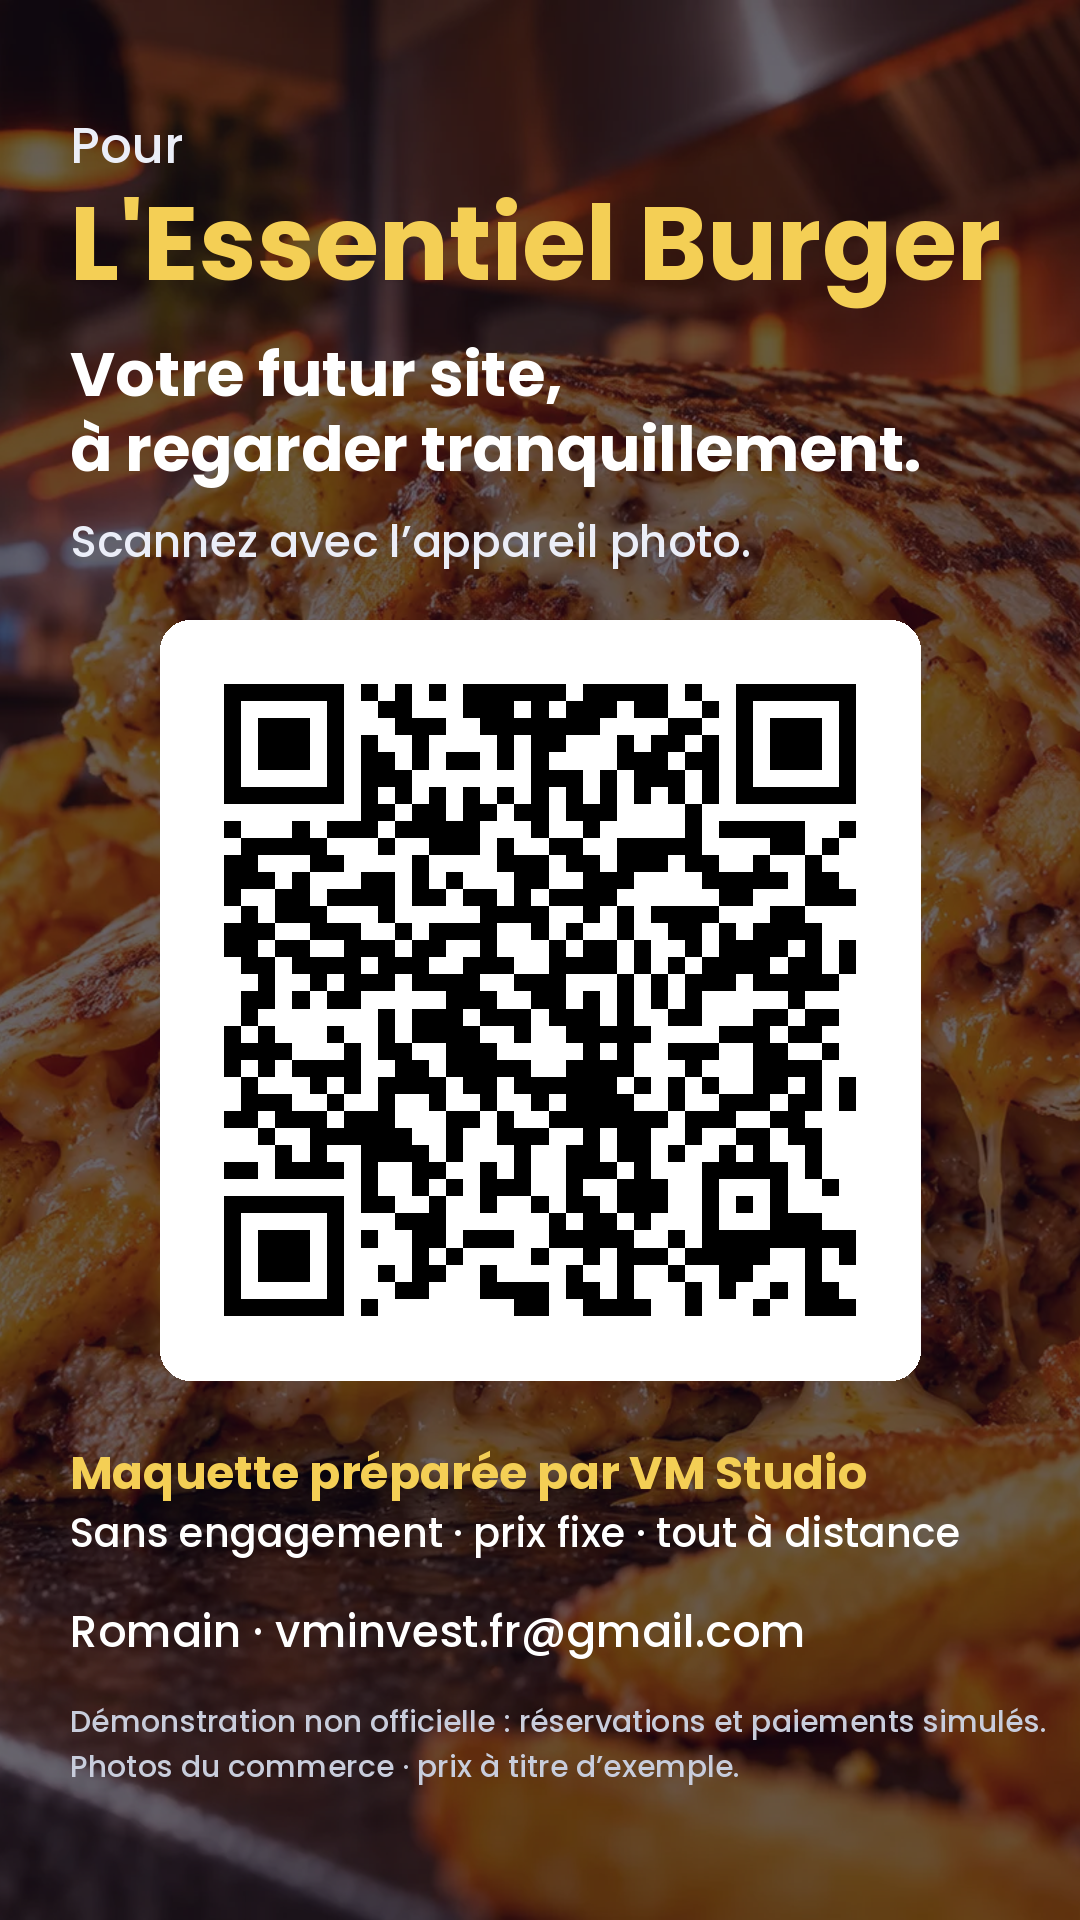
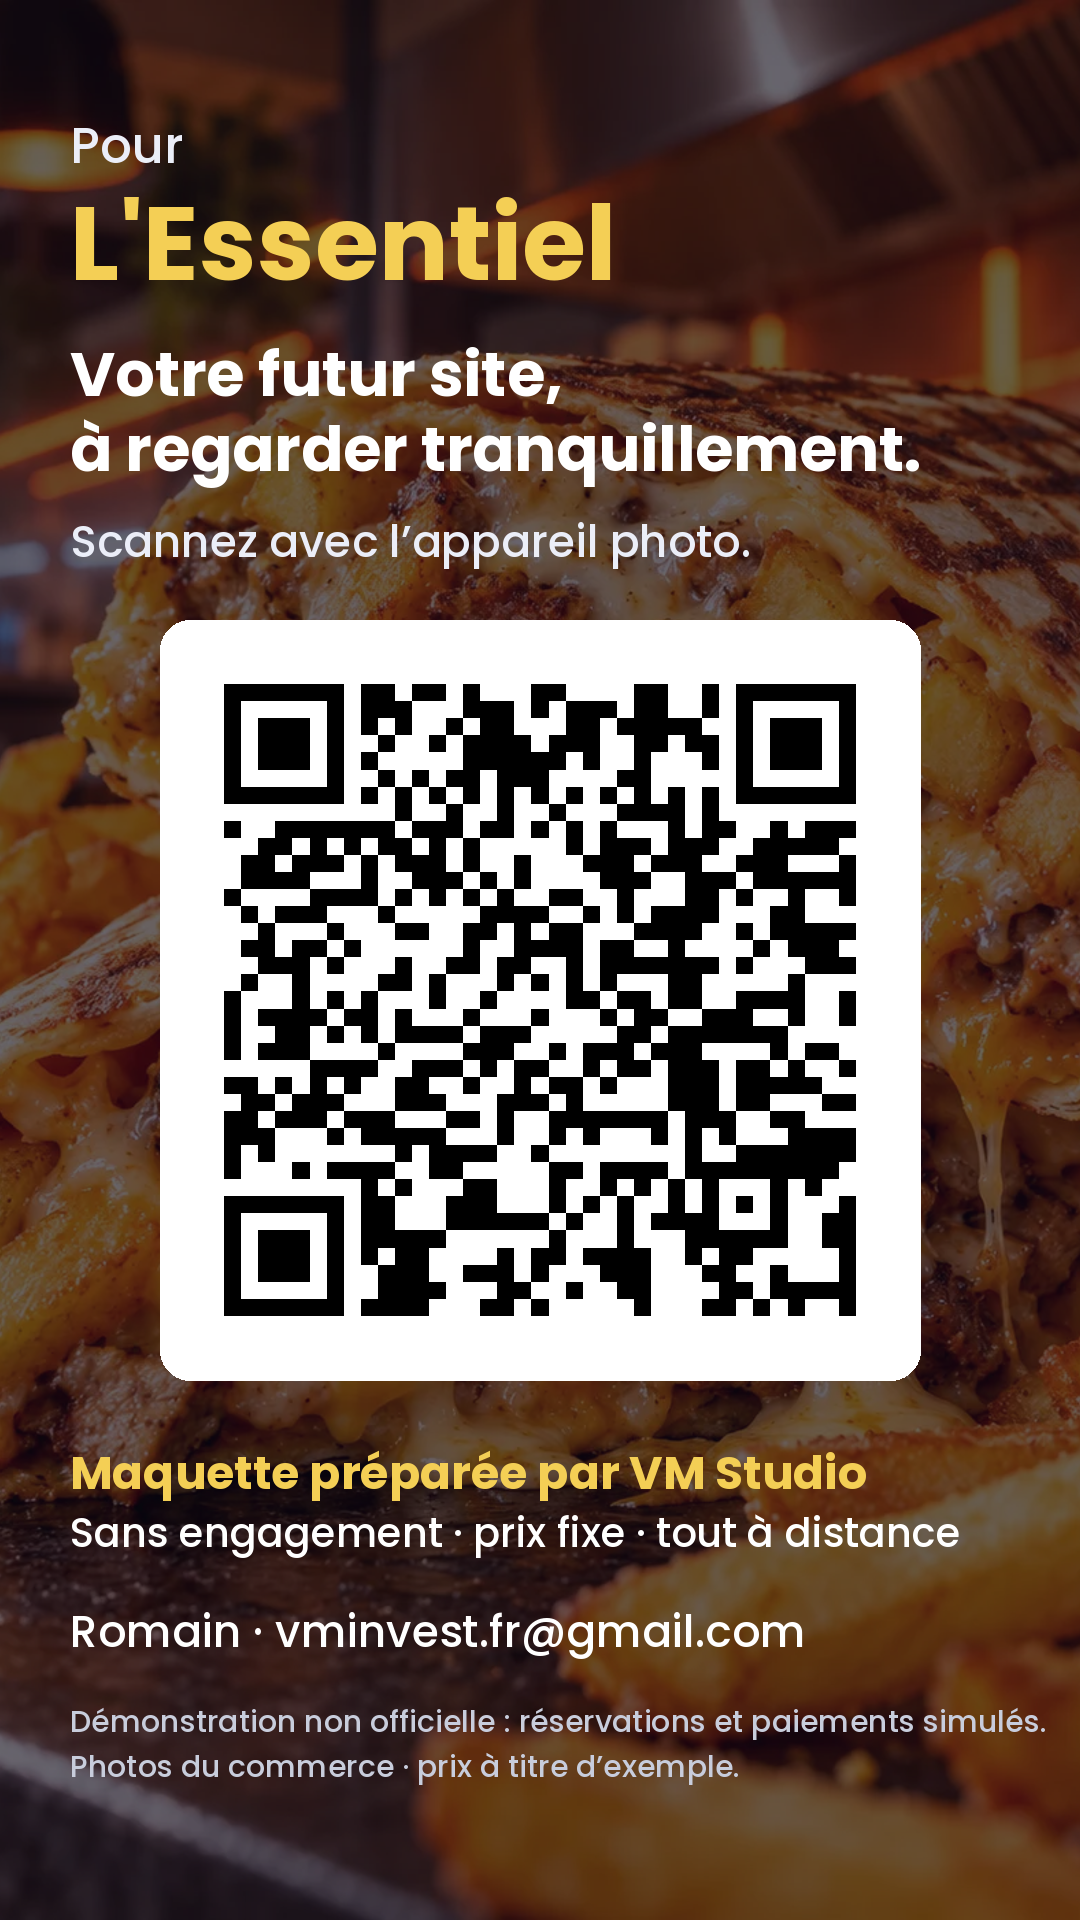
L'Essentiel : nom corrigé
Claude-Session: https://claude.ai/code/session_01P5NxQT71HyV29YBTs2kxP1

Changed region(s): [[0.1833, 0.3438, 0.7944, 0.6875], [0.5806, 0.0938, 0.9167, 0.1562]]

diff --git a/demos/clients/l-essentiel-burger-0d92858a24.html b/demos/clients/l-essentiel-burger-0d92858a24.html
@@ -62,7 +62,7 @@
 
 <script>
 var SAUCES=['Blanche','Algérienne','Samouraï','Harissa','Biggy','Barbecue','Ketchup','Mayo'];
-window.DEMO={"id": "client-l-essentiel-burger-0d92858a24", "name": "L'Essentiel Burger", "tagline": "Burgers faits maison : commandez en ligne, retirez à l'heure choisie", "address": "Belfort (90000)", "rating": "—", "hours": {"1": [["11:30", "14:00"], ["18:30", "22:00"]], "2": [["11:30", "14:00"], ["18:30", "22:00"]], "3": [["11:30", "14:00"], ["18:30", "22:00"]], "4": [["11:30", "14:00"], ["18:30", "22:00"]], "5": [["11:30", "14:00"], ["18:30", "22:30"]], "6": [["11:30", "14:00"], ["18:30", "22:30"]], "0": []}, "order": {"refPrefix": "EB", "prep": 15, "payNote": "Paiement au retrait en boutique.", "payShort": "paiement au retrait", "noteLabel": "Une précision ? (sans oignon, sans cornichons…)", "modes": [{"id": "emporter", "l": "À emporter", "e": "🥡", "sub": "Choisissez votre heure de retrait", "step": 15, "lead": 20, "rate": 20, "whenLabel": "Votre heure de retrait"}], "track": [["📥", "Reçue"], ["👨🍳", "En cuisine"], ["🔥", "Presque prête"], ["✅", "Prête !"]], "items": [{"id": "classic", "cat": "Burgers", "name": "Le Classic", "desc": "Steak haché, cheddar, salade, tomate, sauce maison. (exemple)", "price": 8.5, "e": "🍔", "img": "https://restaurant.restaurants-de-france.fr/assets/images/banner.jpg", "tag": "Best-seller", "opts": [{"n": "Formule", "c": ["Seul", ["Menu (frites + boisson)", 3.5]]}, {"n": "Cuisson", "c": ["À point", "Bien cuit"]}], "img_orig": "/demos/img/snack/burger.webp"}, {"id": "bacon", "cat": "Burgers", "name": "Le Cheese Bacon", "desc": "Steak haché, double cheddar, bacon croustillant, oignons. (exemple)", "price": 9.9, "e": "🥓", "img": "https://restaurant.restaurants-de-france.fr/assets/images/banner.jpg", "opts": [{"n": "Formule", "c": ["Seul", ["Menu (frites + boisson)", 3.5]]}, {"n": "Cuisson", "c": ["À point", "Bien cuit"]}], "img_orig": "/demos/img/snack/burger.webp"}, {"id": "double", "cat": "Burgers", "name": "Le Double", "desc": "Deux steaks, cheddar fondu, cornichons, sauce maison. (exemple)", "price": 11.5, "e": "🍔", "img": "https://restaurant.restaurants-de-france.fr/assets/images/banner.jpg", "tag": "Signature", "opts": [{"n": "Formule", "c": ["Seul", ["Menu (frites + boisson)", 3.5]]}, {"n": "Cuisson", "c": ["À point", "Bien cuit"]}], "img_orig": "/demos/img/snack/burger.webp"}, {"id": "chicken", "cat": "Burgers", "name": "Le Crispy Chicken", "desc": "Poulet pané croustillant, salade, sauce douce. (exemple)", "price": 9.5, "e": "🐔", "img": "https://restaurant.restaurants-de-france.fr/assets/images/banner.jpg", "opts": [{"n": "Formule", "c": ["Seul", ["Menu (frites + boisson)", 3.5]]}], "img_orig": "/demos/img/snack/chicken.webp"}, {"id": "vege", "cat": "Burgers", "name": "Le Végétarien", "desc": "Galette de légumes, fromage, salade, tomate. (exemple)", "price": 9.5, "e": "🥬", "img": "https://restaurant.restaurants-de-france.fr/assets/images/banner.jpg", "opts": [{"n": "Formule", "c": ["Seul", ["Menu (frites + boisson)", 3.5]]}], "img_orig": "/demos/img/snack/burger.webp"}, {"id": "frites", "cat": "À côté", "name": "Frites", "desc": "Portion généreuse. (exemple)", "price": 3, "e": "🍟", "img": "https://restaurant.restaurants-de-france.fr/assets/images/banner.jpg", "img_orig": "/demos/img/snack/frites.webp"}, {"id": "tenders", "cat": "À côté", "name": "6 tenders", "desc": "Poulet pané croustillant. (exemple)", "price": 5.5, "e": "🍗", "img": "https://restaurant.restaurants-de-france.fr/assets/images/banner.jpg", "img_orig": "/demos/img/snack/tenders.webp"}, {"id": "soda", "cat": "Boissons", "name": "Canette 33 cl", "price": 2, "e": "🥤", "img": "https://restaurant.restaurants-de-france.fr/assets/images/banner.jpg", "opts": [{"n": "Boisson", "c": ["Cola", "Cola zéro", "Orange", "Thé glacé", "Eau"]}], "img_orig": "/demos/img/snack/canette.webp"}, {"id": "dessert", "cat": "Desserts", "name": "Dessert maison", "desc": "Le dessert du jour. (exemple)", "price": 3.5, "e": "🍮", "img": "https://restaurant.restaurants-de-france.fr/assets/images/banner.jpg", "img_orig": "/demos/img/snack/tiramisu.webp"}]}, "proKpis": ["Commandes", "Chiffre du jour", "SMS automatiques", "Note Google"], "proFake": [{"ref": "EB-7K2P", "when": "19h05", "what": "2× Le Classic (Menu)", "nom": "Bilal", "total": 24}, {"ref": "EB-4M8Q", "when": "19h12", "what": "1× Le Cheese Bacon (Menu), 1× 6 tenders", "nom": "Jessica", "total": 18.9}, {"ref": "EB-9A1R", "when": "19h20", "what": "3× Le Double", "nom": "Yassine", "total": 34.5}, {"ref": "EB-2C6T", "when": "19h25", "what": "1× Le Crispy Chicken, 1× Frites", "nom": "Léo", "total": 12.5}]};
+window.DEMO={"id": "client-l-essentiel-burger-0d92858a24", "name": "L'Essentiel", "tagline": "Burgers faits maison : commandez en ligne, retirez à l'heure choisie", "address": "Belfort (90000)", "rating": "—", "hours": {"1": [["11:30", "14:00"], ["18:30", "22:00"]], "2": [["11:30", "14:00"], ["18:30", "22:00"]], "3": [["11:30", "14:00"], ["18:30", "22:00"]], "4": [["11:30", "14:00"], ["18:30", "22:00"]], "5": [["11:30", "14:00"], ["18:30", "22:30"]], "6": [["11:30", "14:00"], ["18:30", "22:30"]], "0": []}, "order": {"refPrefix": "EB", "prep": 15, "payNote": "Paiement au retrait en boutique.", "payShort": "paiement au retrait", "noteLabel": "Une précision ? (sans oignon, sans cornichons…)", "modes": [{"id": "emporter", "l": "À emporter", "e": "🥡", "sub": "Choisissez votre heure de retrait", "step": 15, "lead": 20, "rate": 20, "whenLabel": "Votre heure de retrait"}], "track": [["📥", "Reçue"], ["👨🍳", "En cuisine"], ["🔥", "Presque prête"], ["✅", "Prête !"]], "items": [{"id": "classic", "cat": "Burgers", "name": "Le Classic", "desc": "Steak haché, cheddar, salade, tomate, sauce maison. (exemple)", "price": 8.5, "e": "🍔", "img": "https://restaurant.restaurants-de-france.fr/assets/images/banner.jpg", "tag": "Best-seller", "opts": [{"n": "Formule", "c": ["Seul", ["Menu (frites + boisson)", 3.5]]}, {"n": "Cuisson", "c": ["À point", "Bien cuit"]}], "img_orig": "/demos/img/snack/burger.webp"}, {"id": "bacon", "cat": "Burgers", "name": "Le Cheese Bacon", "desc": "Steak haché, double cheddar, bacon croustillant, oignons. (exemple)", "price": 9.9, "e": "🥓", "img": "https://restaurant.restaurants-de-france.fr/assets/images/banner.jpg", "opts": [{"n": "Formule", "c": ["Seul", ["Menu (frites + boisson)", 3.5]]}, {"n": "Cuisson", "c": ["À point", "Bien cuit"]}], "img_orig": "/demos/img/snack/burger.webp"}, {"id": "double", "cat": "Burgers", "name": "Le Double", "desc": "Deux steaks, cheddar fondu, cornichons, sauce maison. (exemple)", "price": 11.5, "e": "🍔", "img": "https://restaurant.restaurants-de-france.fr/assets/images/banner.jpg", "tag": "Signature", "opts": [{"n": "Formule", "c": ["Seul", ["Menu (frites + boisson)", 3.5]]}, {"n": "Cuisson", "c": ["À point", "Bien cuit"]}], "img_orig": "/demos/img/snack/burger.webp"}, {"id": "chicken", "cat": "Burgers", "name": "Le Crispy Chicken", "desc": "Poulet pané croustillant, salade, sauce douce. (exemple)", "price": 9.5, "e": "🐔", "img": "https://restaurant.restaurants-de-france.fr/assets/images/banner.jpg", "opts": [{"n": "Formule", "c": ["Seul", ["Menu (frites + boisson)", 3.5]]}], "img_orig": "/demos/img/snack/chicken.webp"}, {"id": "vege", "cat": "Burgers", "name": "Le Végétarien", "desc": "Galette de légumes, fromage, salade, tomate. (exemple)", "price": 9.5, "e": "🥬", "img": "https://restaurant.restaurants-de-france.fr/assets/images/banner.jpg", "opts": [{"n": "Formule", "c": ["Seul", ["Menu (frites + boisson)", 3.5]]}], "img_orig": "/demos/img/snack/burger.webp"}, {"id": "frites", "cat": "À côté", "name": "Frites", "desc": "Portion généreuse. (exemple)", "price": 3, "e": "🍟", "img": "https://restaurant.restaurants-de-france.fr/assets/images/banner.jpg", "img_orig": "/demos/img/snack/frites.webp"}, {"id": "tenders", "cat": "À côté", "name": "6 tenders", "desc": "Poulet pané croustillant. (exemple)", "price": 5.5, "e": "🍗", "img": "https://restaurant.restaurants-de-france.fr/assets/images/banner.jpg", "img_orig": "/demos/img/snack/tenders.webp"}, {"id": "soda", "cat": "Boissons", "name": "Canette 33 cl", "price": 2, "e": "🥤", "img": "https://restaurant.restaurants-de-france.fr/assets/images/banner.jpg", "opts": [{"n": "Boisson", "c": ["Cola", "Cola zéro", "Orange", "Thé glacé", "Eau"]}], "img_orig": "/demos/img/snack/canette.webp"}, {"id": "dessert", "cat": "Desserts", "name": "Dessert maison", "desc": "Le dessert du jour. (exemple)", "price": 3.5, "e": "🍮", "img": "https://restaurant.restaurants-de-france.fr/assets/images/banner.jpg", "img_orig": "/demos/img/snack/tiramisu.webp"}]}, "proKpis": ["Commandes", "Chiffre du jour", "SMS automatiques", "Note Google"], "proFake": [{"ref": "EB-7K2P", "when": "19h05", "what": "2× Le Classic (Menu)", "nom": "Bilal", "total": 24}, {"ref": "EB-4M8Q", "when": "19h12", "what": "1× Le Cheese Bacon (Menu), 1× 6 tenders", "nom": "Jessica", "total": 18.9}, {"ref": "EB-9A1R", "when": "19h20", "what": "3× Le Double", "nom": "Yassine", "total": 34.5}, {"ref": "EB-2C6T", "when": "19h25", "what": "1× Le Crispy Chicken, 1× Frites", "nom": "Léo", "total": 12.5}]};
 </script>
 <script src="/demos/kit/vm-demo.js?v=20261023-audit"></script>
 </body></html>
